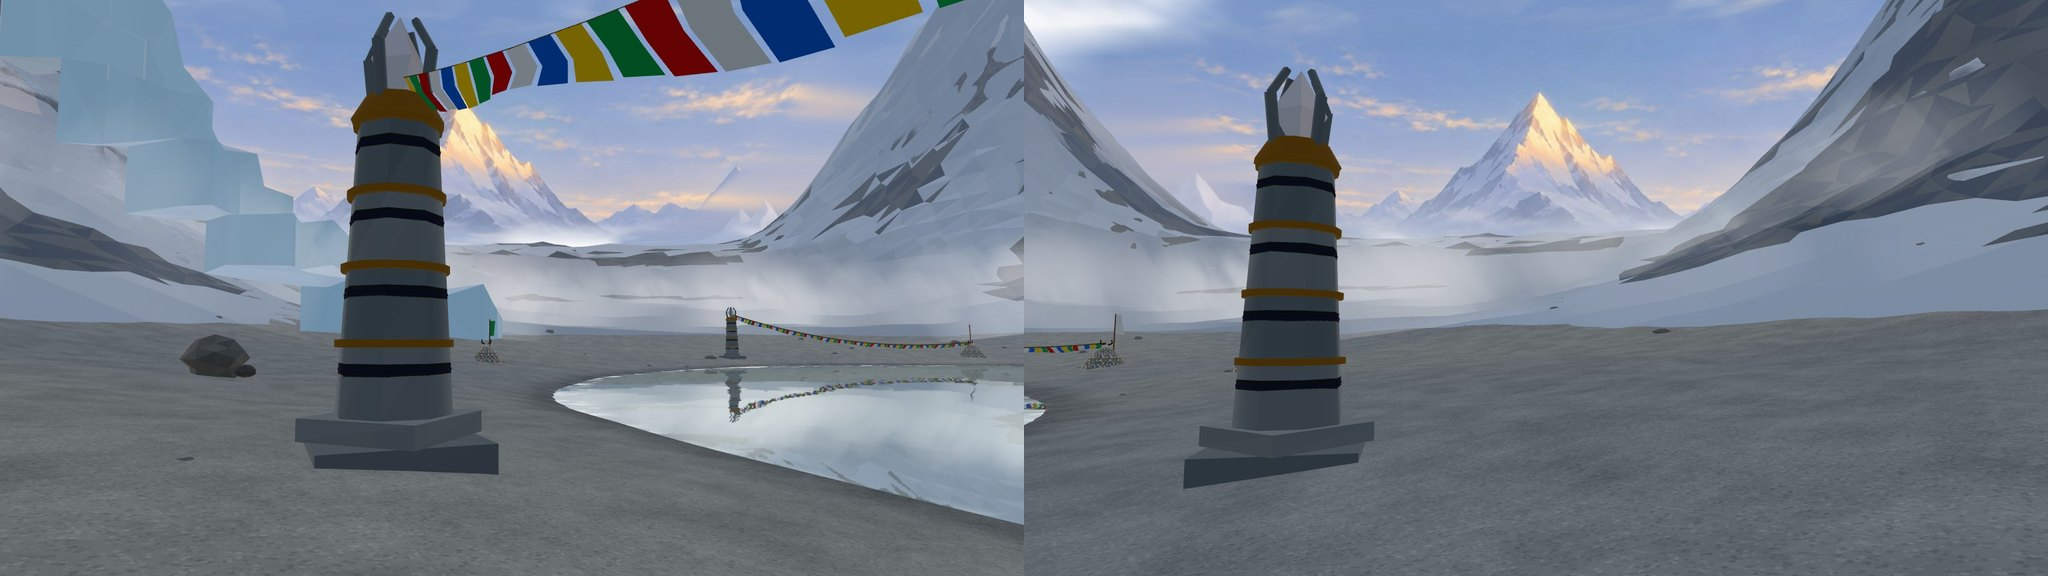
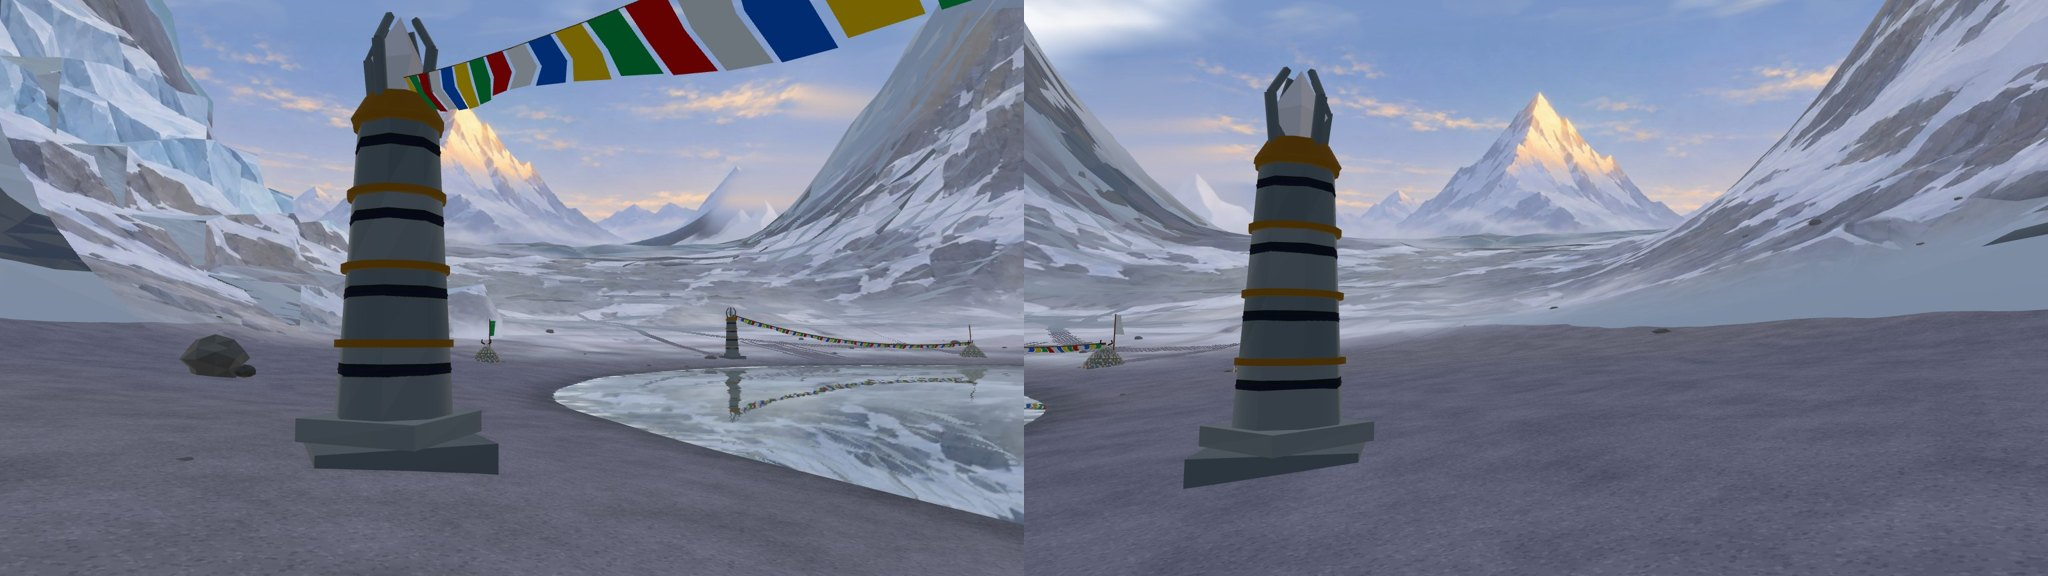
feat(plateau): 4-4 投影绘景——概念图从出生点相机投到冰斗壁、冰舌、缺口和远岸，缺口不再是一片平白坡
- paintProject.ts：深度图判遮挡，离湖心 55 m 起投，离镜头 80 m 内渐出退回程序着色
- make_far_matte.py 出投影贴图（道具用镜像纹理抹掉、天和神山透明）；远山板往下多留深色 U 形谷
- 雾带减薄，碎石滩调成冷紫灰
- cdp.mjs：等到有页面标签再连，修 Chromium 偶尔「没起来」

diff --git a/src/world/haizi/paintProject.ts b/src/world/haizi/paintProject.ts
@@ -1,0 +1,159 @@
+/**
+ * 4-4 神山海子的投影绘景（camera projection mapping）：把概念图（docs/art/concepts/ch4-631/4-4_haizi_scene_v5.jpg）
+ * 从画它的那台相机（出生点机位，farMatte.ts 的 MATTE）投到冰斗壁、冰舌、冰斗缺口和远处湖岸的 3D 地形上。
+ *
+ * 为什么：程序着色的冰斗壁和缺口怎么调都只是「布局像」，画里那种一片片岩板夹雪、U 形谷底压暗、山脚一圈低雾、
+ * 晨光的冷暖都出不来。绘景师的老办法是把画投到粗模上：出生点看过去就是那张画（画就是在这套白模上重绘的，形状对得上），
+ * 换个位置看，颜色贴在几何上，视差是对的。
+ *
+ * 规则（按片元）：
+ * - 只投到出生点相机看得见的面上：烘一张从投影机位看的深度图（第一次画湖的时候烘，静态场景只烘一次），比深度判遮挡；
+ *   和投影方向几乎平行的面不投（拉伸）。
+ * - 只投湖岸以外（离湖心 55 m 起渐入）；离镜头近（80 m 内渐出、50 m 内全无）退回程序着色——画只有 2048 宽，凑近了会糊。
+ * - 画里的天、神山（make_far_matte.py 的保留区）和柱子、经幡、玛尼堆、湖心岛不投：贴图的透明通道 / 抹掉（make_far_matte.py）。
+ * - 画里已经有光影和空气透视：直接替换最终颜色（雾、色调映射之后），不再打光；雷暴时和远山绘景一样压暗、去饱和。
+ */
+import * as THREE from 'three';
+import { WORLD_UNIFORMS } from '../plateau/materials';
+import { MATTE, matteCamera } from './farMatte';
+
+export const PAINT = {
+  /** public/ 下的路径：整张概念图（2048 × 1152），透明通道 = 投哪里 */
+  url: 'assets/environment/haizi/scene_projection.webp',
+  /** 离湖心多远开始投（m）：[全无, 全有] */
+  ring: [55, 65] as const,
+  /** 离镜头多近退回程序着色（m）：[全无, 全有] */
+  near: [50, 80] as const,
+  /** 深度图分辨率和投影机的近 / 远平面 */
+  depthSize: [2048, 1152] as const,
+  zNear: 10, zFar: 4000,
+};
+
+export interface PaintProjector {
+  /** 给材质接上投影（链在已有的 onBeforeCompile 后面，程序缓存键加后缀） */
+  apply(mat: THREE.Material): void;
+  /** 烘深度图（要在场景里的静态件都摆好之后；hide 里的东西不挡投影） */
+  bake(renderer: THREE.WebGLRenderer, scene: THREE.Scene, hide: THREE.Object3D[]): void;
+  readonly baked: boolean;
+  /** 贴图加载完 */
+  ready: Promise<void>;
+}
+
+export function buildPaintProjector(baseUrl: string): PaintProjector {
+  const cam = matteCamera(PAINT.zNear, PAINT.zFar);
+  const vp = new THREE.Matrix4().multiplyMatrices(cam.projectionMatrix, cam.matrixWorldInverse);
+  const tex = new THREE.Texture();
+  tex.colorSpace = THREE.SRGBColorSpace;
+  tex.anisotropy = 4;
+  const target = new THREE.WebGLRenderTarget(PAINT.depthSize[0], PAINT.depthSize[1]);
+  target.depthTexture = new THREE.DepthTexture(PAINT.depthSize[0], PAINT.depthSize[1]);
+  target.depthTexture.minFilter = target.depthTexture.magFilter = THREE.NearestFilter;
+  const uniforms = {
+    uPaintTex: { value: tex as THREE.Texture },
+    uPaintDepth: { value: target.depthTexture as THREE.Texture },
+    uPaintVP: { value: vp },
+    uPaintEye: { value: cam.position.clone() },
+    uPaintOn: { value: 0 },
+    uPaintRange: { value: new THREE.Vector4(PAINT.ring[0], PAINT.ring[1], PAINT.near[0], PAINT.near[1]) },
+    uPaintClip: { value: new THREE.Vector2(PAINT.zNear, PAINT.zFar) },
+  };
+  let loaded = false, baked = false;
+  const ready = new Promise<void>((resolve) => {
+    if (typeof document === 'undefined') { resolve(); return; }
+    new THREE.ImageLoader().load(baseUrl + PAINT.url, (img) => {
+      tex.image = img;
+      tex.needsUpdate = true;
+      loaded = true;
+      if (baked) uniforms.uPaintOn.value = 1;
+      resolve();
+    }, undefined, () => resolve());   // 加载失败：退回程序着色
+  });
+
+  const apply = (mat: THREE.Material): void => {
+    const prev = mat.onBeforeCompile;
+    const prevKey = mat.customProgramCacheKey.bind(mat);
+    mat.customProgramCacheKey = () => `${prevKey()}:paint`;
+    mat.onBeforeCompile = (shader, renderer) => {
+      prev.call(mat, shader, renderer);
+      Object.assign(shader.uniforms, uniforms, { uStorm: WORLD_UNIFORMS.uStorm, uFlash: WORLD_UNIFORMS.uFlash });
+      // patchMaterial 已经声明过 uStorm 的话不再重复声明
+      const decl = (name: string): string => (shader.fragmentShader.includes(`uniform float ${name};`) ? '' : `uniform float ${name};`);
+      const stormDecl = decl('uStorm'), flashDecl = decl('uFlash');
+      shader.vertexShader = shader.vertexShader
+        .replace('#include <common>', '#include <common>\nvarying vec3 vPpWorld;\nvarying vec3 vPpN;')
+        .replace('#include <project_vertex>', `#include <project_vertex>
+  vPpWorld = (modelMatrix * vec4(transformed, 1.0)).xyz;
+  vPpN = normalize(mat3(modelMatrix) * objectNormal);`);
+      shader.fragmentShader = shader.fragmentShader
+        .replace('#include <common>', `#include <common>
+varying vec3 vPpWorld;
+varying vec3 vPpN;
+uniform sampler2D uPaintTex;
+uniform sampler2D uPaintDepth;
+uniform mat4 uPaintVP;
+uniform vec3 uPaintEye;
+uniform float uPaintOn;
+uniform vec4 uPaintRange;
+uniform vec2 uPaintClip;
+${stormDecl}
+${flashDecl}`)
+        .replace('#include <dithering_fragment>', `{
+  // 投影绘景（paintProject.ts）：出生点相机看得见、离湖心够远、离镜头够远的面，最终颜色换成画里的颜色
+  vec4 pc = uPaintVP * vec4(vPpWorld, 1.0);
+  float w = uPaintOn * step(0.001, pc.w);
+  vec3 nd = pc.xyz / max(pc.w, 1e-4);
+  vec2 st = nd.xy * 0.5 + 0.5;
+  w *= step(0.0, st.x) * step(st.x, 1.0) * step(0.0, st.y) * step(st.y, 1.0);
+  if (w > 0.0) {
+    // 遮挡：深度图里存的是投影机位看到的最近表面，比它远（超过一点余量）就是被挡住的
+    float d = texture2D(uPaintDepth, st).r * 2.0 - 1.0;
+    float n = uPaintClip.x, f = uPaintClip.y;
+    float seen = 2.0 * n * f / (f + n - d * (f - n));
+    w *= step(pc.w, seen + 1.5 + pc.w * 0.012);
+    // 和投影方向几乎平行的面（会拉成长条）不投
+    w *= smoothstep(0.04, 0.2, abs(dot(normalize(vPpN), normalize(uPaintEye - vPpWorld))));
+    w *= smoothstep(uPaintRange.x, uPaintRange.y, length(vPpWorld.xz));
+    w *= smoothstep(uPaintRange.z, uPaintRange.w, distance(cameraPosition, vPpWorld));
+    vec4 p = texture2D(uPaintTex, st);
+    w *= p.a;
+    vec3 c = p.rgb;
+    float gray = dot(c, vec3(0.2126, 0.7152, 0.0722));
+    c = mix(c, vec3(gray) * 0.42, uStorm * 0.85) + vec3(0.9, 0.85, 1.0) * uFlash * 0.18;
+    gl_FragColor.rgb = mix(gl_FragColor.rgb, linearToOutputTexel(vec4(c, 1.0)).rgb, w);
+  }
+}
+#include <dithering_fragment>`);
+    };
+    mat.needsUpdate = true;
+  };
+
+  const bake = (renderer: THREE.WebGLRenderer, scene: THREE.Scene, hide: THREE.Object3D[]): void => {
+    // 不写深度的东西（雾带、云、远山绘景、粒子）换成覆盖材质后会挡住投影，一起藏起来
+    hide = [...hide];
+    scene.traverse(o => {
+      const m = (o as THREE.Mesh).material as THREE.Material | THREE.Material[] | undefined;
+      const one = Array.isArray(m) ? m[0] : m;
+      if (o.visible && ((one && (one.transparent || !one.depthWrite)) || (o as THREE.Points).isPoints || (o as THREE.Line).isLine || (o as THREE.Sprite).isSprite)) hide.push(o);
+    });
+    const vis = hide.map(o => o.visible);
+    hide.forEach(o => { o.visible = false; });
+    const prevTarget = renderer.getRenderTarget(), prevAuto = renderer.shadowMap.autoUpdate, prevOverride = scene.overrideMaterial;
+    const prevXr = renderer.xr.enabled;
+    renderer.xr.enabled = false;
+    renderer.shadowMap.autoUpdate = false;
+    scene.overrideMaterial = new THREE.MeshBasicMaterial({ side: THREE.DoubleSide });
+    renderer.setRenderTarget(target);
+    renderer.clear();
+    renderer.render(scene, cam);
+    renderer.setRenderTarget(prevTarget);
+    (scene.overrideMaterial as THREE.Material).dispose();
+    scene.overrideMaterial = prevOverride;
+    renderer.shadowMap.autoUpdate = prevAuto;
+    renderer.xr.enabled = prevXr;
+    hide.forEach((o, i) => { o.visible = vis[i]; });
+    baked = true;
+    if (loaded) uniforms.uPaintOn.value = 1;
+  };
+
+  return { apply, bake, get baked() { return baked; }, ready };
+}

diff --git a/src/world/haizi/scene.ts b/src/world/haizi/scene.ts
@@ -18,6 +18,7 @@ import type { CollisionWorld } from '../plateau/walker';
 import { buildCliffs } from './cliffs';
 import { buildGlacier } from './glacier';
 import { buildFarMatte } from './farMatte';
+import { buildPaintProjector } from './paintProject';
 import { DAWN, FLAG_LINES, ISLAND, LAKE, PEAKS, PILLARS, PLACEMENTS, SACRED_PEAK, type PillarSpec } from './spec';
 import { buildFarTerrain, type HaiziTerrain } from './terrain';
 
@@ -338,8 +339,13 @@ export interface HaiziScene {
 export function buildHaizi(scene: THREE.Scene, terrain: HaiziTerrain, world: CollisionWorld, reflectW: number, reflectH: number): HaiziScene {
   const terrainGroup = new THREE.Group();
   terrainGroup.name = 'terrain';
+  // 投影绘景（paintProject.ts）：概念图从出生点相机投到冰斗壁、冰舌、缺口和远岸上。地形用自己的一份材质（共用的那份别的图也在用）
+  const base = `${import.meta.env?.BASE_URL ?? '/'}`;
+  const paint = buildPaintProjector(base);
+  const terrainMat = patchMaterial(new THREE.MeshLambertMaterial({ vertexColors: true }), { detail: true, splat: true });
+  paint.apply(terrainMat);
   for (const g of terrain.buildTiles(96)) {
-    const m = new THREE.Mesh(g, materials().terrain);
+    const m = new THREE.Mesh(g, terrainMat);
     m.receiveShadow = true; m.castShadow = true;
     terrainGroup.add(m);
   }
@@ -350,13 +356,16 @@ export function buildHaizi(scene: THREE.Scene, terrain: HaiziTerrain, world: Col
   // 神山和它两侧的远峰是一块绘景背景板（farMatte.ts，取自概念图），远山列表里的神山不再生成
   const mountains = buildMountains(PEAKS.filter(p => p.x !== SACRED_PEAK.x || p.z !== SACRED_PEAK.z));
   summitGlow(mountains);
-  const far = buildFarMatte(`${import.meta.env?.BASE_URL ?? '/'}`);
-  scene.add(sky, skyLin, mountains, far.mesh, buildFarTerrain(terrain), buildCliffs(), buildGlacier());
+  const far = buildFarMatte(base);
+  const painted = [buildFarTerrain(terrain), buildCliffs(), buildGlacier()];
+  for (const m of painted) paint.apply(m.material as THREE.Material);
+  scene.add(sky, skyLin, mountains, far.mesh, ...painted);
 
   const lake = new LakeSurface(terrain, reflectW, reflectH);
   // 反射那一遍换成线性色的天空，渲染完换回来
   const reflect = lake.mesh.onBeforeRender;
   lake.mesh.onBeforeRender = function (renderer, sc, camera, geometry, material, group) {
+    if (!paint.baked) paint.bake(renderer, sc as THREE.Scene, [lake.mesh, sky, skyLin]);
     sky.visible = false; skyLin.visible = true;
     skyLin.position.copy(sky.position);
     reflect.call(this, renderer, sc, camera, geometry, material, group);
@@ -389,6 +398,6 @@ export function buildHaizi(scene: THREE.Scene, terrain: HaiziTerrain, world: Col
   const grass = new GrassField(terrain, occupied);
   scene.add(grass.group);
   const out: HaiziScene = { sky, lake, pillars, conductors, anim, flags, grass, scatter, icons, farLoaded: false };
-  void far.ready.then(() => { out.farLoaded = true; });
+  void Promise.all([far.ready, paint.ready]).then(() => { out.farLoaded = true; });
   return out;
 }

diff --git a/src/dev/haiziLab.ts b/src/dev/haiziLab.ts
@@ -98,7 +98,7 @@ const ringKeys = (r: number, from: number, to: number, n: number): MistStream['k
   return { position: [x, terrain.heightAt(x, z) + 3, z] as [number, number, number], halfWidth: 9, size: 28, opacity: i === 0 || i === n - 1 ? 0 : 1 };
 });
 const lakeMist = new MistStreams([{
-  opacity: 0.6, speed: 0.35, flat: true, floorY: LAKE.level, stretch: 2,
+  opacity: 0.3, speed: 0.35, flat: true, floorY: LAKE.level, stretch: 2,
   keys: [
     { position: [-46, LAKE.level + 0.8, -14], halfWidth: 12, size: 26, halfHeight: 1.5, opacity: 0 },
     { position: [-22, LAKE.level + 0.8, -30], halfWidth: 14, size: 28, halfHeight: 1.5 },
@@ -106,7 +106,8 @@ const lakeMist = new MistStreams([{
     { position: [46, LAKE.level + 0.8, -14], halfWidth: 12, size: 26, halfHeight: 1.5, opacity: 0 },
   ],
 }], { renderOrder: 2 });
-const footMist = new MistStreams([{ opacity: 0.48, speed: 0.5, keys: ringKeys(96, -2.1, 2.1, 11) }, { opacity: 0.3, speed: 0.4, keys: ringKeys(130, -1.6, 1.6, 9) }]);
+// 冰斗壁和缺口上已经是投影上去的画（paintProject.ts），画里山脚有雾；这里只留薄薄一层会动的，不然叠成一堵白墙
+const footMist = new MistStreams([{ opacity: 0.16, speed: 0.5, keys: ringKeys(96, -2.1, 2.1, 11) }]);
 // 黎明的天：低云很少（云影已经压低）、中高处几缕被晨光照暖的丝云（概念图）；天空盒自己画了太阳，不再画日晕
 const clouds = new CloudSky({ ...cloudSkyForChapter(4), low: 0.08, mid: 0.22, high: 0.5, sunGlow: 0 });
 scene.add(lakeMist.mesh, footMist.mesh, clouds.mesh);

diff --git a/src/world/haizi/farMatte.ts b/src/world/haizi/farMatte.ts
@@ -32,12 +32,20 @@ export interface FarMatte {
   ready: Promise<void>;
 }
 
-export function buildFarMatte(baseUrl: string): FarMatte {
+/** 画概念图的那台相机（出生点机位）：远山绘景反投影、投影绘景（paintProject.ts）都用它 */
+export function matteCamera(near = 0.1, far = 10000): THREE.PerspectiveCamera {
   const M = MATTE;
-  const cam = new THREE.PerspectiveCamera(M.fovDeg, M.aspect, 0.1, 10000);
+  const cam = new THREE.PerspectiveCamera(M.fovDeg, M.aspect, near, far);
   cam.position.set(...M.eye);
   cam.rotation.set(THREE.MathUtils.degToRad(M.pitchDeg), THREE.MathUtils.degToRad(M.yawDeg), 0, 'YXZ');
   cam.updateMatrixWorld(true);
+  cam.updateProjectionMatrix();
+  return cam;
+}
+
+export function buildFarMatte(baseUrl: string): FarMatte {
+  const M = MATTE;
+  const cam = matteCamera();
   const eye = cam.position.clone();
   const yaw = THREE.MathUtils.degToRad(M.yawDeg);
   const fwd = new THREE.Vector3(-Math.sin(yaw), 0, -Math.cos(yaw));   // 水平朝前

diff --git a/src/world/haizi/terrain.ts b/src/world/haizi/terrain.ts
@@ -73,8 +73,8 @@ export function macroAt(x: number, z: number): Macro {
 }
 
 const PAL = {
-  gravel: new THREE.Color('#c4bcb0'),
-  gravelWarm: new THREE.Color('#d2c7b2'),
+  gravel: new THREE.Color('#bdb0b6'),   // 概念图的碎石滩偏冷紫灰
+  gravelWarm: new THREE.Color('#c8bab6'),
   gravelWet: new THREE.Color('#8d877e'),
   bedShallow: new THREE.Color('#6f9d95'),
   bedDeep: new THREE.Color('#2f5a5e'),

diff --git a/docs/art/concepts/ch4-631/tools/make_far_matte.py b/docs/art/concepts/ch4-631/tools/make_far_matte.py
@@ -1,6 +1,6 @@
 """4-4 神山海子的远山绘景：从概念图裁出远山那一块（带画好的天），两侧冰斗壁和谷底抠成透明，上沿渐隐。
     python docs/art/concepts/ch4-631/tools/make_far_matte.py
-输出 public/assets/environment/haizi/far_mountains_matte.webp（带透明通道）。
+输出 public/assets/environment/haizi/far_mountains_matte.webp（带透明通道）和投影绘景用的 scene_projection.webp（整张图抹掉道具、天和神山透明）。
 抠掉的冰斗壁和左右各加宽的 PAD 补画成天（按行取画里的天色）和接着往两边走的淡远山（照画里两侧远峰的样子程序画）：玩家在湖岸上换位置时近处的 3D 冰斗壁和远处背景板错开，边和抠掉的地方也不会露缝。
 裁剪框（概念图像素）和出生点相机一起决定背景板在世界里的位置：src/world/haizi/farMatte.ts 的 MATTE 常量要和这里的 BOX 一致。
 """
@@ -94,7 +94,8 @@ def main() -> None:
     im = Image.open(SRC).convert("RGB").crop(BOX)
     w, h = im.size
     mask = Image.new("L", (w, h), 0)
-    ImageDraw.Draw(mask).polygon(KEEP, fill=255)
+    # 背景板的保留区比 KEEP 往下多留一段（山脚雾带下面那道深色 U 形谷）：3D 缺口地形的天际线上方露出来的是画，不是一条亮白的雾
+    ImageDraw.Draw(mask).polygon([(x, y + 62 if 300 <= x <= 1250 else y) for x, y in KEEP], fill=255)
     rgb = np.asarray(im).astype(np.float32)
     # 保留区往里收 14 px 再羽化：画里冰斗壁那道深色山脊线不渗进来；取色只用往里收 16 px 的像素
     soft = mask.filter(ImageFilter.MinFilter(29)).filter(ImageFilter.GaussianBlur(6))
@@ -106,10 +107,10 @@ def main() -> None:
     k = np.zeros((h, W), np.float32)
     k[:, PAD:PAD + w] = np.asarray(soft).astype(np.float32) / 255
     wide = src * k[..., None] + wide * (1 - k[..., None])
-    # 透明：上沿 0–12% 渐隐进程序天空；山脚雾带（400–450 px）往下透明（冰碛垄和远谷交给场景里的 3D）；最外侧 280 px 渐隐
+    # 透明：上沿 0–12% 渐隐进程序天空；深色谷底（470–510 px）往下透明（冰碛垄和远谷交给场景里的 3D）；最外侧 280 px 渐隐
     y = np.linspace(0, 1, h)[:, None]
     x = np.arange(W)[None, :]
-    a = np.clip(y / 0.12, 0, 1) * (1 - np.clip((y * h - 400) / 50, 0, 1))
+    a = np.clip(y / 0.12, 0, 1) * (1 - np.clip((y * h - 470) / 40, 0, 1))
     a = a * np.clip(x / 280, 0, 1) * np.clip((W - 1 - x) / 280, 0, 1)
     rgba = np.dstack([wide.clip(0, 255).astype(np.uint8), (a * 255).astype(np.uint8)])
     OUT.parent.mkdir(parents=True, exist_ok=True)
@@ -117,5 +118,44 @@ def main() -> None:
     print(OUT.relative_to(ROOT), f"{OUT.stat().st_size // 1024} KB", (W, h))
 
 
+
+# ───── 投影绘景（src/world/haizi/paintProject.ts）：整张概念图从出生点相机投到冰斗壁、冰舌、缺口和远岸的 3D 地形上
+PROJ_OUT = ROOT / "public/assets/environment/haizi/scene_projection.webp"
+# 画里的道具（柱子、经幡、玛尼堆、湖心岛和祭坛）：抹掉，不然会印到后面的山坡上（概念图 2048×1152 像素）
+PROPS = [(336, 576, 504, 658), (812, 532, 1034, 652), (1018, 586, 1232, 642), (1192, 582, 1258, 654), (1406, 582, 1494, 654),
+         (1822, 526, 1914, 664), (826, 552, 1180, 700)]
+
+
+def mirror_fill(img: np.ndarray, rect: tuple[int, int, int, int]) -> None:
+    """道具框里换成紧挨着它左边（左边不够就右边）那一块的镜像：岩板、积雪、雾的纹理是真的，不是抹出来的一团灰；框边 8 px 渐变"""
+    x0, y0, x1, y1 = rect
+    w = x1 - x0
+    W = img.shape[1]
+    src = img[y0:y1, x0 - w:x0][:, ::-1] if x0 - w >= 0 else img[y0:y1, x1:x1 + w][:, ::-1]
+    h = y1 - y0
+    yy = np.minimum(np.arange(h), np.arange(h)[::-1])[:, None]
+    xx = np.minimum(np.arange(w), np.arange(w)[::-1])[None, :]
+    k = (np.clip(np.minimum(yy, xx) / 8.0, 0, 1))[..., None]
+    img[y0:y1, x0:x1] = img[y0:y1, x0:x1] * (1 - k) + src * k
+
+
+def make_projection() -> None:
+    img = np.asarray(Image.open(SRC).convert("RGB")).astype(np.float32)
+    H, W, _ = img.shape
+    for r in PROPS:
+        mirror_fill(img, r)
+    out = img.clip(0, 255).astype(np.uint8)
+    # 透明：天和神山（保留区，左右两条山脊线延到画框上沿）不投
+    ox = BOX[0]
+    keep = [(207, 0)] + [(x + ox, y) for x, y in KEEP[2:-2]] + [(1834, 0)]
+    mask = Image.new("L", (W, H), 255)
+    ImageDraw.Draw(mask).polygon(keep, fill=0)
+    a = np.asarray(mask.filter(ImageFilter.GaussianBlur(4)))
+    rgba = np.dstack([out, a]).astype(np.uint8)
+    Image.fromarray(rgba, "RGBA").save(PROJ_OUT, "WEBP", quality=90, alpha_quality=80, method=6)
+    print(PROJ_OUT.relative_to(ROOT), f"{PROJ_OUT.stat().st_size // 1024} KB", (W, H))
+
+
 if __name__ == "__main__":
     main()
+    make_projection()

diff --git a/docs/art/concepts/ch4-631/README.md b/docs/art/concepts/ch4-631/README.md
@@ -300,7 +300,7 @@
 ## 5. 落到网页版的顺序（建议）
 
 1. **4-4**：最小。地形、湖、雷神都在 `src/world/haizi/`，只换 9 种摆件 + 接 `Atmosphere`；先出石柱、雷晶、祭坛三件的四视图。
-   - **已做（2026-11-19 / 20）：远中景和光照概念图落进检视页**（`plateau-lab.html?map=4-4`），对照图 `4-4_haizi_concept_vs_web.jpg`（上 = 概念图、下 = 网页场景 `4-4_haizi_web_v3.jpg`，同一机位）。
+   - **已做（2026-11-19 / 20）：远中景和光照概念图落进检视页**（`plateau-lab.html?map=4-4`），对照图 `4-4_haizi_concept_vs_web.jpg`（上 = 概念图、下 = 网页场景 `4-4_haizi_web_v4.jpg`，同一机位）。
      第一遍只对上了布局（用户：「只是布局像，很多细节都不像」），第二遍逐块对着改，第三遍（11-20，用户：「先把远处的雪山还原」）远山改成绘景：
      | 部位 | 概念图 | 做法 |
      |---|---|---|
@@ -313,6 +313,7 @@
      | 雾 | 远岸和冰斗脚一圈低雾 | `MistStreams`：湖北半边贴水面一层、冰斗脚两圈（都在玩家和雷神之间以外） |
      | 湖岸、柱、岛 | 平整碎石滩；淡色不发光的晶石；深色石堆 | 湖岸和冰斗壁不长草；晶石平时淡灰、充能才亮紫红，柱身紫线和铜箍压暗；岛上一圈灰色大石 |
      入场点 E2「冰舌脚」随冰舌挪到 (−40, −66)，reach_probe 全部通过。631（第三遍）：低饱和 65%、中间调 64%（首领场有意的窄明度带）、安静 24%；概念图本身 57% / 75% / 13%。
+   - **第四遍（11-21，用户：「这里穿帮了，光线也不像概念图」）投影绘景**（`paintProject.ts`）：缺口那片 3D 地形是一整块平白坡、湖后一堵白雾墙。改成把整张概念图从出生点相机投到冰斗壁、冰舌、缺口和远岸的 3D 地形上（替换最终颜色，画里自带光影和雾）：烘一张投影机位的深度图判遮挡，离湖心 55 m 起投、离镜头 80 m 内渐出退回程序着色（凑近会糊）；贴图 `scene_projection.webp` 由 `make_far_matte.py` 出（天和神山透明，柱子 / 经幡 / 玛尼堆 / 湖心岛用旁边的镜像纹理抹掉，不然印到山坡上）。雾带减到薄薄一层，远山板往下多留一段深色 U 形谷，碎石滩调成冷紫灰。没做：湖里的金顶倒影——从出生点的几何上看不到（金顶仰角 15–21°，湖最近处俯角才 9.6°），概念图是画的时候压扁了倒影。
    - **绘景的换位核对**：`4-4_haizi_shore_views.jpg`（左 = 西岸 (−62, 10)、右 = 东岸 (62, 12)）。湖岸上走动时近处的 3D 冰斗壁和 1.5 km 外的板错开，冰斗壁后面露出来的是补画的远山和天，没有缝、没有空天；
      出图：`render_blockouts.mjs 4-4 4-4e 4-4w --out <目录>`（核对机位必须带 --out）。改了 `make_far_matte.py` 的 `BOX` / `PAD`，`farMatte.ts` 的 `MATTE.u0 / u1` 要一起改；动了出生点相机，`MATTE.eye / yawDeg / pitchDeg / fovDeg` 要和 `VIEWS['4-4']` 一致。
    - 还和概念图不一样的：湖心岛上还是 4-1 共用的灵火坛（彩色），概念图是三级石台 + 晶石——要换成套件表第 3 件；石柱、玛尼堆、巨石也还是程序白模（套件表第 1–9 件 → 四视图 → Tripo）；
